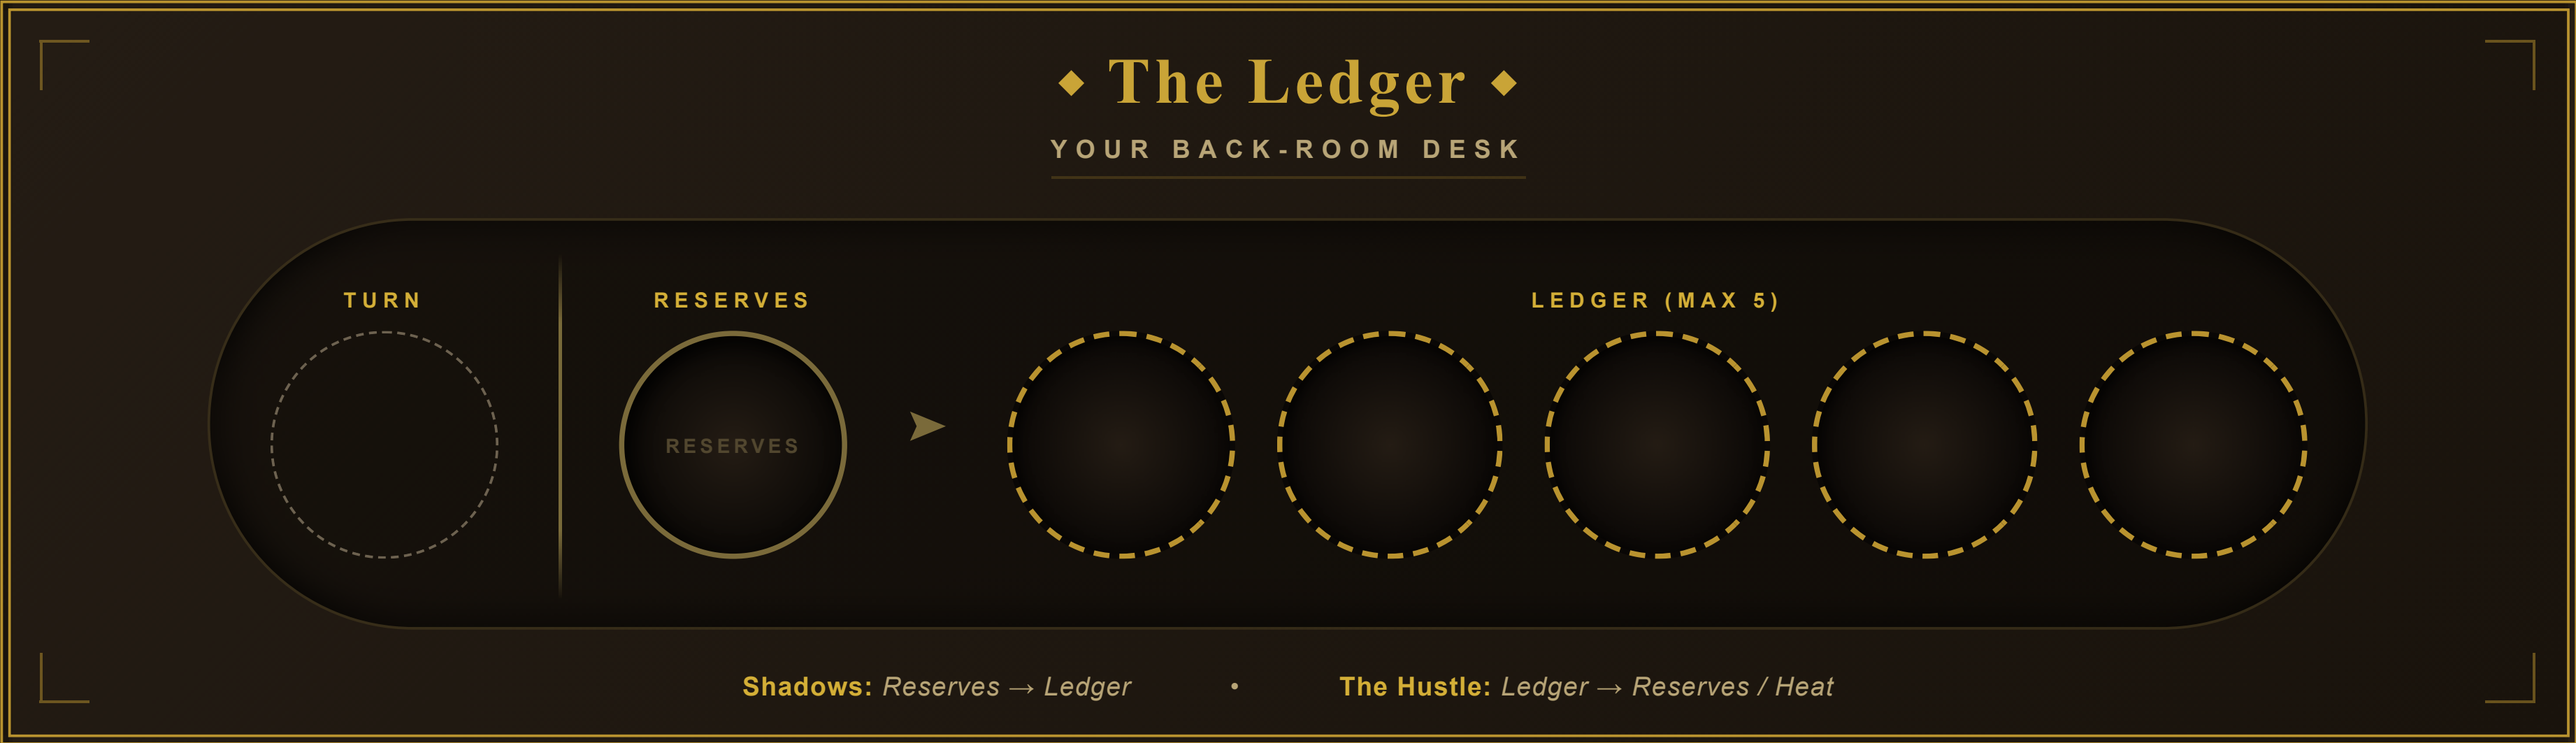
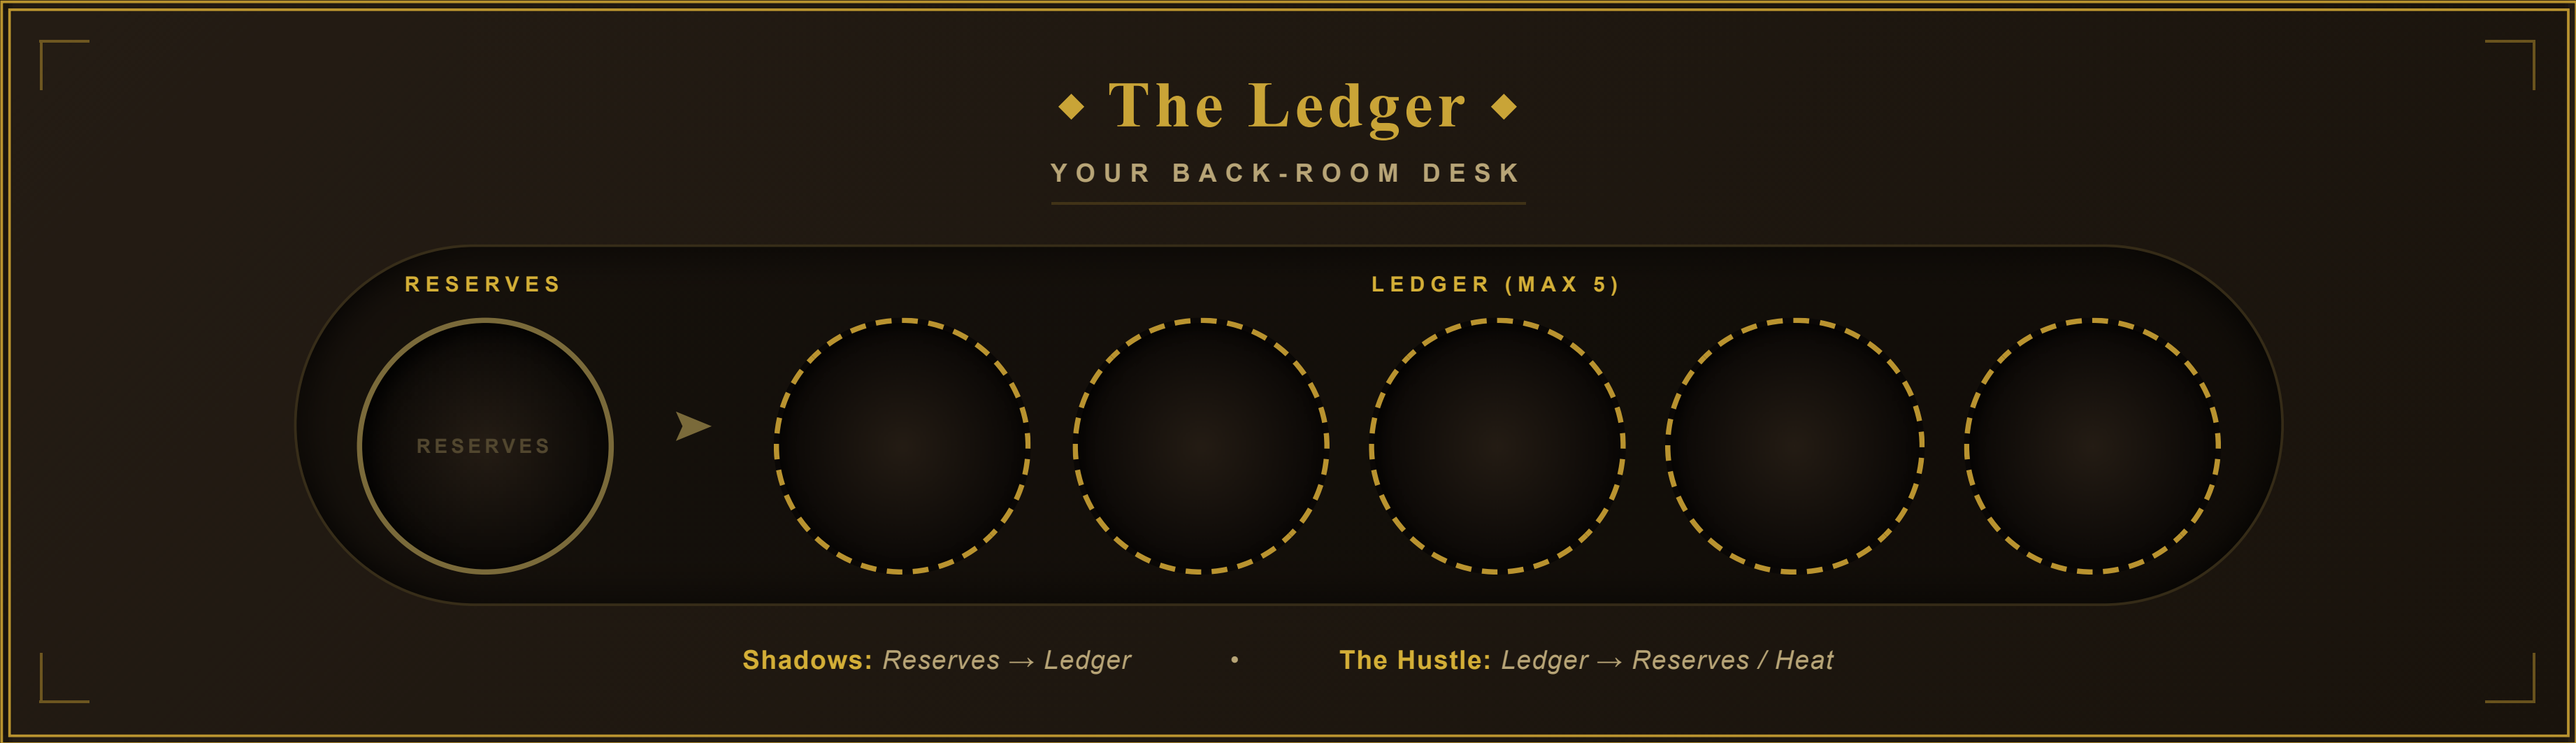
The Ledger: two board builds, and the Turn token comes off the board
Prototype markers are 25mm, so the working board is 26mm sockets (the
extra millimetre keeps the ring visible around a seated chip). A second
file carries the 39mm poker-chip build for later; it is generated from
the prototype so the two cannot drift structurally.

The Turn token is off the board entirely. It was never part of the
Reserves -> Ledger -> Heat cycle: it is a claimed number, not a spent
resource, so it belongs beside the board rather than in the socket row.
Its socket and the now-dead .divider rule are gone from both files.

That removal is also what makes chip size possible at all. A single row
of SEVEN positions caps out at 28.9mm at normal spacing, and 34.1mm even
with the board stretched to the sheet's full usable width and every gap
tightened; seven 39mm chips need 311mm, 14mm wider than the whole sheet.
Six positions fit.

Twice now the arithmetic said a layout fitted and the render disagreed:
the socket row ran past the frame and clipped the last socket, and a
corner-positioned Turn slot overlapped it. Both caught by looking.

Rulebook plate regenerated from the prototype build.

v0-8-changes.md gains a section speccing all of this plus five open
items, so it survives a context reset: custom poker chips as the marker,
inlining the board into the rulebook instead of shipping a PNG, the
double-labelled Reserves socket, ~300 words of held-back voice cuts, and
whether the no-em-dash rule extends to internal docs.

diff --git a/The Ledger v0.8 (Poker Chips).html b/The Ledger v0.8 (Poker Chips).html
@@ -2,7 +2,7 @@
 <html lang="en">
 <head>
     <meta charset="UTF-8">
-    <title>Moonshine Kingdom The Ledger v0.8</title>
+    <title>Moonshine Kingdom The Ledger v0.8 (Poker Chips)</title>
     <link href="https://fonts.googleapis.com/css2?family=Barlow:ital,wght@0,400;0,600;0,700;1,400&family=Cinzel:wght@600;700&display=swap" rel="stylesheet">
     <style>
         /* --------------------------------------------------------------
@@ -45,21 +45,20 @@
             width: 297mm;
             height: 210mm;
             background-color: var(--bg);
-            padding: 10mm;
+            padding: 6mm;
             display: flex;
             flex-direction: column;
             align-items: center;
             justify-content: center;
-            gap: 15mm;
+            gap: 8mm;
         }
 
         /* --- THE BOARD ---
-           Geometry unchanged from v0.63 (260 x 75mm). The rulebook uses a
-           render of this strip as its player-board plate, so changing the
-           proportions would change that image too. */
+           275 x 85mm, up from the prototype 260 x 75. Two per sheet still
+           fits: 2 x 85 + 8mm gap = 178mm inside 198mm of usable height. */
         .dashboard-strip {
-            width: 260mm;
-            height: 75mm;
+            width: 275mm;
+            height: 85mm;
 
             background-color: var(--panel-b);
             background-image: linear-gradient(135deg, var(--panel-a), var(--panel-b));
@@ -137,12 +136,12 @@
             display: flex;
             align-items: center;
             justify-content: center;
-            gap: 4mm;
+            gap: 2mm;
 
             background-color: rgba(0, 0, 0, .35);
             /* 6mm, not 8mm: at 8 the pill ran past the board's right edge and
                the last Ledger socket was clipped by the frame. */
-            padding: 3mm 6mm;
+            padding: 3mm 4mm;
             border-radius: 100px;
             border: 1px solid rgba(107, 90, 46, .4);
             box-shadow: inset 0 0 15px #000;
@@ -176,16 +175,16 @@
         }
 
         /* --- SOCKETS --- */
-        /* 26mm: the prototype markers are 25mm, plus ~1mm so the socket ring
-           stays visible around a seated chip. If the markers change size, this
-           is the one number to change.
+        /* 39mm: a standard casino poker chip. This is the ONLY difference of
+           substance from the prototype build ("The Ledger v0.8.html", 26mm),
+           along with the board dimensions and row spacing it forces.
 
-           The poker-chip build is a SEPARATE file ("The Ledger v0.8 (Poker
-           Chips).html") at 39mm, because chip-sized sockets need a wider,
-           taller board. Do not try to serve both from this one. */
+           Why six positions and not seven: at chip size the row is ~254mm, so
+           it fills the board and nothing can sit beside it. The Turn token is
+           deliberately NOT on this board; it lives beside it on the table. */
         .socket {
-            width: 26mm;
-            height: 26mm;
+            width: 39mm;
+            height: 39mm;
             border-radius: 50%;
             position: relative;
         }
@@ -268,7 +267,7 @@
                 <!-- Ledger -->
                 <div class="cluster">
                     <div class="label">Ledger (Max 5)</div>
-                    <div style="display:flex; gap:4mm;">
+                    <div style="display:flex; gap:2mm;">
                         <div class="socket action-socket"></div>
                         <div class="socket action-socket"></div>
                         <div class="socket action-socket"></div>
@@ -307,7 +306,7 @@
                 <!-- Ledger -->
                 <div class="cluster">
                     <div class="label">Ledger (Max 5)</div>
-                    <div style="display:flex; gap:4mm;">
+                    <div style="display:flex; gap:2mm;">
                         <div class="socket action-socket"></div>
                         <div class="socket action-socket"></div>
                         <div class="socket action-socket"></div>

diff --git a/v0-8-changes.md b/v0-8-changes.md
@@ -539,3 +539,62 @@ PIL-crop to 700:460 centred, resize, look.
   Per card, save `style.height`, set `height:auto; overflow:visible`, read
   `getBoundingClientRect().height`, restore. Current headroom: **fronts are full** (Vipers **4px**,
   Knights/Irish 23, Sicilians 39), Lowdown 51.
+
+---
+
+## The Ledger player board: two builds, and what is still open (2026-07-20)
+
+**There are now TWO board files and they are not interchangeable.**
+
+| File | Socket | Board | Sheet | Use |
+|---|---|---|---|---|
+| `The Ledger v0.8.html` | **26mm** | 260 x 75mm | 2 per A4 landscape | **Current prototype.** Markers are 25mm; the socket is 26 so the ring stays visible around a seated chip. |
+| `The Ledger v0.8 (Poker Chips).html` | **39mm** | 275 x 85mm | 2 per A4 landscape | Future build for real casino chips. |
+
+The poker file was **generated from** the prototype, so they are structurally identical; only the
+socket size, board dimensions and row spacing differ. Keep it that way. If the board design changes,
+change the prototype and regenerate rather than hand-editing both.
+
+**The rulebook's plate is rendered from the PROTOTYPE file.** `Art/Rulebook/Ledger.png` (3685x1063,
+3.47:1). Recipe: print the file to PDF headless, render page 1 at `scale=5`, crop the first board
+strip (`x = (W - 260mm)/2`, `y = ((210 - (2*75 + 15))/2)mm`), save over the PNG. `Art/Rulebook/Operations.png`
+is retired to `Art/Unused/`; nothing references it.
+
+**THE TURN TOKEN IS DELIBERATELY NOT ON THE BOARD (Nick, 2026-07-20).** It used to sit in the socket
+row. It is not part of the Reserves -> Ledger -> Heat cycle at all: it is a claimed number, not a
+spent resource, so it lives beside the board on the table. Its socket and the `.divider` rule are
+deleted from both files. **Do not put it back**; it is also what makes a single row of chip-sized
+sockets fit at all.
+
+**Why the sizes are what they are, so nobody re-derives it.** A single row of SEVEN positions caps
+out at **28.9mm** at normal spacing and **34.1mm** even with the board stretched to the sheet's full
+usable width and every gap tightened. Seven 39mm chips need **311mm**, which is 14mm wider than the
+whole A4 sheet. Dropping the Turn token to six positions is what buys chip size. **Two separate
+overflow bugs were found by rendering after the arithmetic said it fitted** (the socket row ran past
+the frame and clipped the last socket; a corner-positioned Turn slot overlapped it). Render, do not
+trust the sums.
+
+**Square Turn tokens: Nick's idea, and worth doing.** Shape encodes a *category* difference rather
+than an identity one, which colour cannot, and it survives dim light and colourblindness. Not yet
+decided or built.
+
+### Open, not started
+
+1. **Custom poker chips as the Influence marker.** Agreed direction: weight and the clack are most
+   of what "premium" means at a table, and chips are thematically exact for a Prohibition game.
+   Costs to weigh: ~16 markers x 4 mobs is a real BOM line, plus box weight and shipping.
+2. **Inline the board into the rulebook instead of shipping a PNG.** Argument for: the old
+   `Operations.png` disagreed with its own source file for months precisely because an image cannot
+   be grepped or diffed. Inlining kills that class of drift, is vector, and removes a re-render step.
+   Costs: the board's class names (`.socket`, `.label`, `.cluster`, `.corner`) collide with the
+   rulebook's 1400-line stylesheet so they need scoping, the board is sized in mm and the rulebook
+   column is 702px so it needs a `transform: scale()`, and the markup would then exist in two files.
+   A `tools/` script generating the rulebook block from the ledger file removes that last objection
+   at the cost of a build step the project does not currently have.
+3. **The Reserves socket is labelled twice**, once above and once inside. Pre-existing; may be
+   deliberate so players know where spent markers go. Nick's call.
+4. **~300 words of lower-confidence wording cuts** the audit surfaced and I held back, all voice
+   calls on signature lines: the italic stings on Recruit and Secure, the *Capo di Tutti Capi* trim,
+   and the Blue Wall restatement inside Move.
+5. **`v0-8-changes.md` carries 77 em dashes.** The style rule's gate list covers player-facing files
+   only, so internal docs were never swept. Decide whether the rule extends here.
